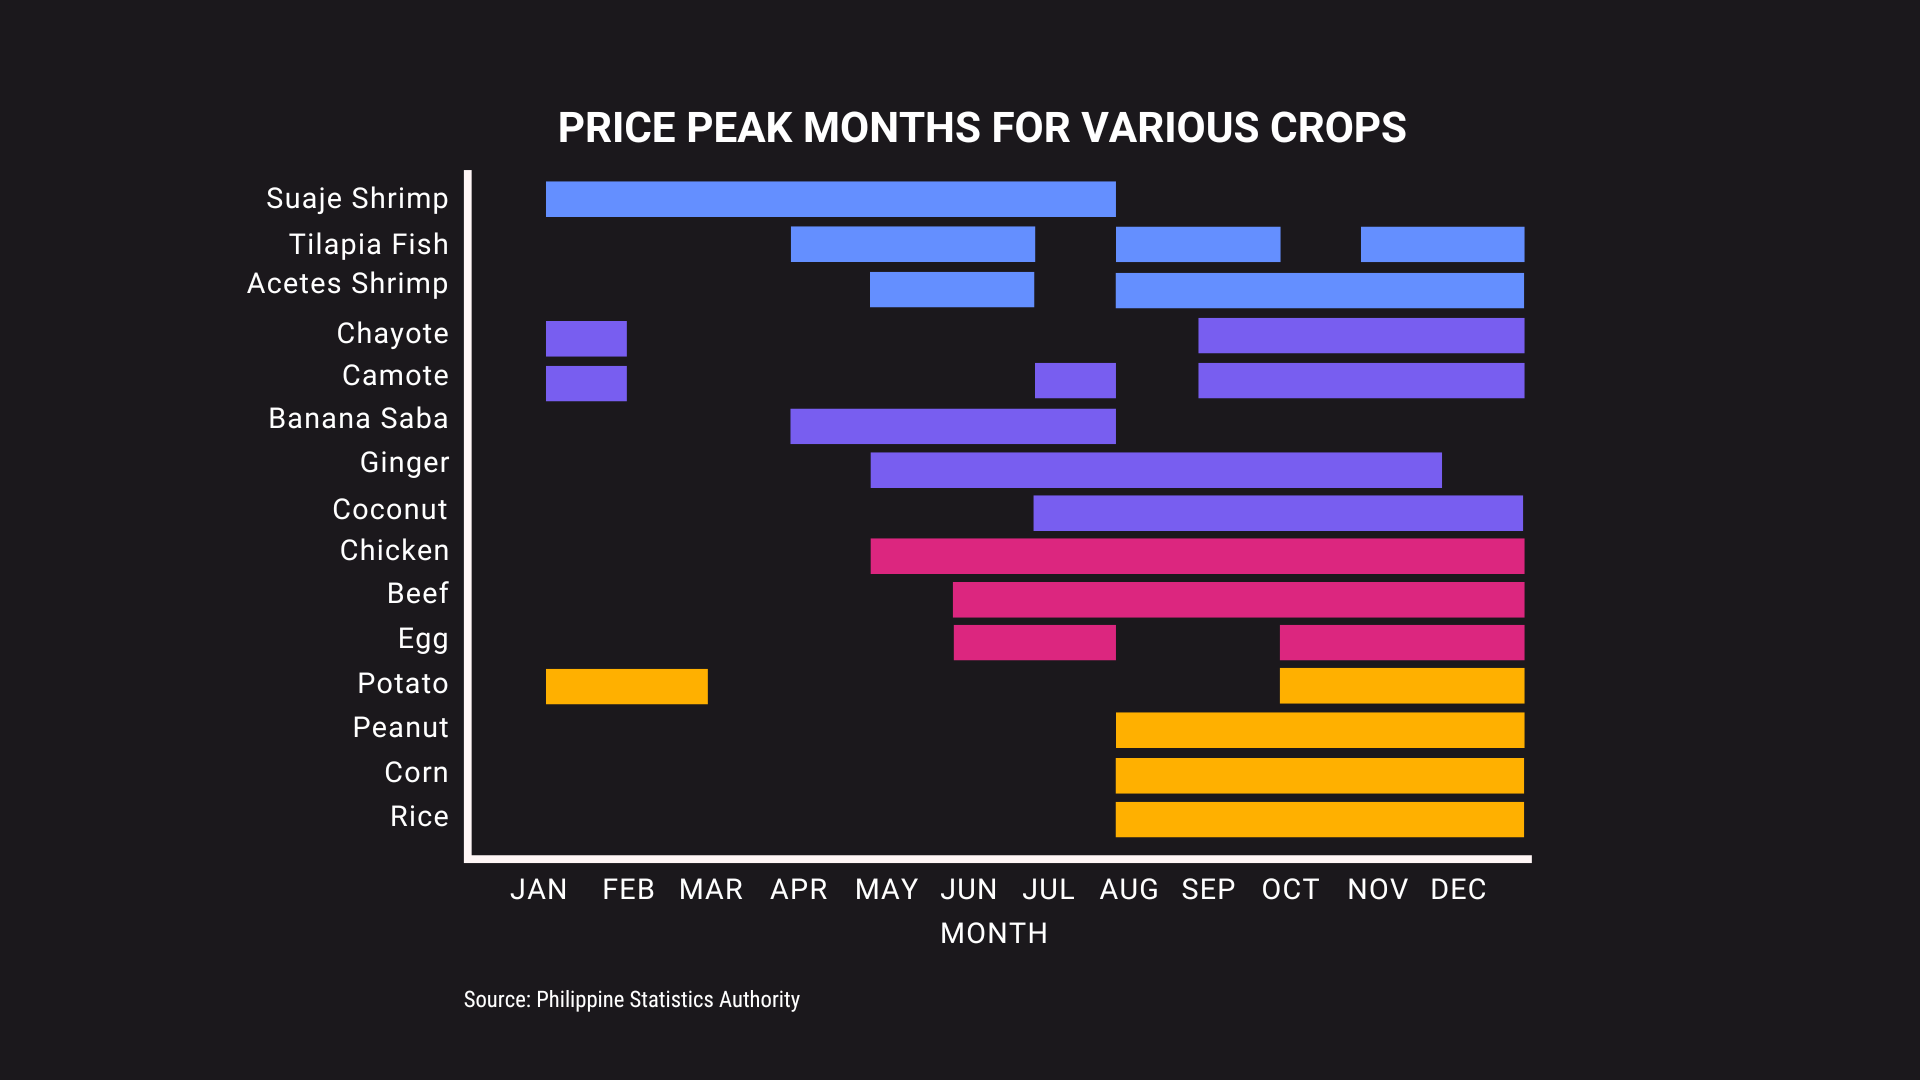
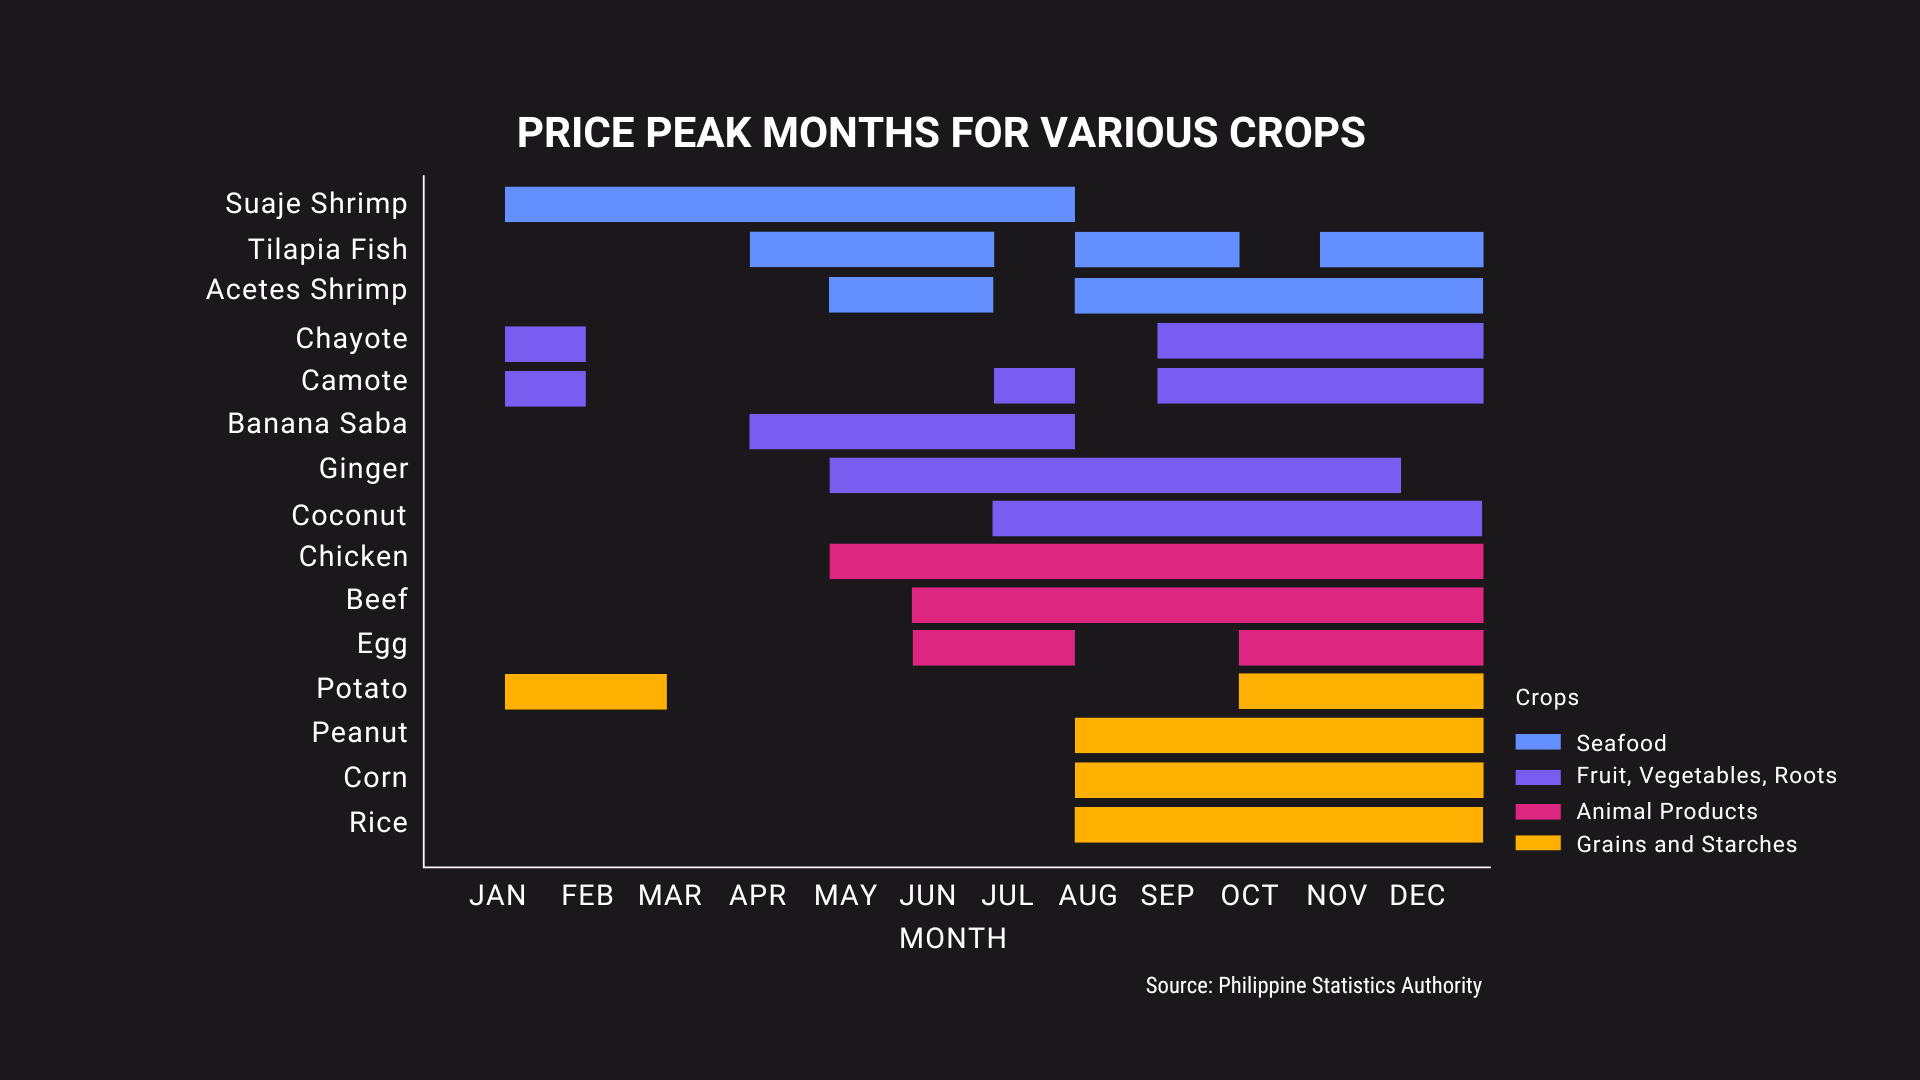
feat: add conclusion

Changed region(s): [[0.0938, 0.0917, 0.9688, 0.8861], [0.5938, 0.8861, 0.7812, 0.9167], [0.25, 0.9167, 0.4062, 0.9472]]

diff --git a/src/lib/Plots.svelte b/src/lib/Plots.svelte
@@ -62,7 +62,7 @@
 		</div>
 	</div>
 
-	<div class="md:flex md:flex-row md:justify-between md:items-center md:gap-12">
+	<div class="md:flex md:flex-row md:justify-between md:items-center md:gap-12 md:mt-8">
 		<div class="flex flex-col gap-2 md:gap-6 items-center">
 			<h2 class="text-center font-msans font-bold text-xl md:text-3xl mt-2">
 				Top Products with <i>Positive</i> Correlation
@@ -121,38 +121,41 @@
 		</div>
 	</div>
 
-	<h2 class="text-center font-msans font-bold text-xl md:text-3xl mt-2">
-		Seasonality of Products
-	</h2>
-	<div class="flex justify-around flex-col md:flex-row gap-2 md:gap-8">
-		<CardImage src="animal.jpg">
-			<span slot="heading">Animal products</span>
-			<span slot="desc"
-				><strong>Spikes</strong> in ber months and <strong>dips</strong> in the following months.</span
-			>
-		</CardImage>
-		<CardImage src="seafood.png">
-			<span slot="heading">Seafood</span>
-			<span slot="desc">
-				<strong>Does not</strong> experience drastic changes in prices, but
-				<strong>shrimp</strong>
-				gets quite <strong>cheap</strong> during the ber months.
-			</span>
-		</CardImage>
-	</div>
-	<div class="flex justify-around flex-col md:flex-row gap-2 md:gap-8">
-		<CardImage src="fruits_veg.jpg">
-			<span slot="heading">Fruits, Vegetables, and Roots</span>
-			<span slot="desc">
-				<strong>Does not</strong> follow some sort of general seasonality.
-			</span>
-		</CardImage>
-		<CardImage src="rice_grains.jpg">
-			<span slot="heading">Rice, Grains, and Starches</span>
-			<span slot="desc">
-				<strong>Gradually increase</strong> in price from August up to December.
-			</span>
-		</CardImage>
+	<div class="flex mt-2 md:mt-8 flex-col gap-2 md:gap-6">
+		<h2 class="text-center font-msans font-bold text-xl md:text-3xl">
+			Seasonality of Products
+		</h2>
+		<div class="flex justify-around flex-col md:flex-row gap-2 md:gap-8">
+			<CardImage src="animal.jpg">
+				<span slot="heading">Animal products</span>
+				<span slot="desc"
+					><strong>Spikes</strong> in ber months and <strong>dips</strong> in the following
+					months.</span
+				>
+			</CardImage>
+			<CardImage src="seafood.png">
+				<span slot="heading">Seafood</span>
+				<span slot="desc">
+					<strong>Does not</strong> experience drastic changes in prices, but
+					<strong>shrimp</strong>
+					gets quite <strong>cheap</strong> during the ber months.
+				</span>
+			</CardImage>
+		</div>
+		<div class="flex justify-around flex-col md:flex-row gap-2 md:gap-8">
+			<CardImage src="fruits_veg.jpg">
+				<span slot="heading">Fruits, Vegetables, and Roots</span>
+				<span slot="desc">
+					<strong>Does not</strong> follow some sort of general seasonality.
+				</span>
+			</CardImage>
+			<CardImage src="rice_grains.jpg">
+				<span slot="heading">Rice, Grains, and Starches</span>
+				<span slot="desc">
+					<strong>Gradually increase</strong> in price from August up to December.
+				</span>
+			</CardImage>
+		</div>
 	</div>
 </div>
 

diff --git a/src/lib/Conclusion.svelte b/src/lib/Conclusion.svelte
@@ -1,5 +1,6 @@
 <script>
 	export let id;
+	import CardImage from '$lib/CardImage.svelte';
 </script>
 
 <div
@@ -8,15 +9,50 @@
 >
 	<h1 class="font-msans text-center text-3xl md:text-5xl font-bold md:mb-4">Conclusion</h1>
 
+	<div class="flex flex-col justify-center items-center gap-4 mb-2">
+		<p class=" text-center font-m text-normal md:text-xl">
+			In conclusion, we <strong>reject</strong> the null hypothesis. Some of the main takeaways
+			of our study include the following
+		</p>
+		<div class="flex justify-around flex-col md:flex-row gap-2 md:gap-8">
+			<CardImage>
+				<span slot="heading">Price Movements</span>
+				<span slot="desc"
+					>Prices of some products are affected by <strong
+						>inter-product correlation</strong
+					>
+					and
+					<strong>time of year</strong>.</span
+				>
+			</CardImage>
+			<CardImage>
+				<span slot="heading">Holiday Seasons</span>
+				<span slot="desc"
+					>We have verified that ber-months or the holiday seasons are time periods
+					wherein <strong>prices peak</strong> for numerous products.</span
+				>
+			</CardImage>
+			<CardImage>
+				<span slot="heading">Applications</span>
+				<span slot="desc"
+					>This study about agricultural products can help us, <strong
+						>the consumers</strong
+					>, and, most importantly, our
+					<strong>farmers</strong>.
+				</span>
+			</CardImage>
+		</div>
+	</div>
+
 	<div class="max-w-screen-lg">
 		<h2 class="mb-2 md:mb-4 font-msans text-center text-xl md:text-3xl font-bold">
 			Some Recommendations
 		</h2>
 		<p class="text-center font-m text-normal md:text-xl">
-			Due to the sheer number of agricultural products and the amount of possible pairings, we
-			were unable to investigate all of them. Hence, we recommend taking the time to perform
-			correlation studies between <strong>all possible product pairs</strong> as well as using
-			data that spans for a <strong>longer period</strong>.
+			Due to the sheer number of agricultural products and the amount of possible product
+			pairings, we were unable to investigate all of them. Hence, we recommend taking the time
+			to perform correlation studies between <strong>all possible product pairs</strong> as
+			well as using data that spans for a <strong>longer period</strong>.
 		</p>
 	</div>
 </div>

diff --git a/src/lib/Exploration.svelte b/src/lib/Exploration.svelte
@@ -129,6 +129,40 @@
 				</svg>
 			</a>
 		</div>
+		<div
+			class="hover:scale-105 transition translate duration-300 max-w-sm p-6 bg-white border border-gray-300 rounded-lg shadow"
+		>
+			<div>
+				<h5 class="mb-2 text-2xl font-semibold tracking-tight text-gray-900">
+					Want to check our repo?
+				</h5>
+			</div>
+			<p class="mb-3 font-normal text-gray-500">
+				Click the link below to check our GitHub repository.
+			</p>
+			<a
+				href="https://github.com/rue-22/cs132-group-two"
+				class="inline-flex font-medium items-center text-blue-600 hover:underline"
+				target="__blank__"
+			>
+				Our GitHub repo!
+				<svg
+					class="w-3 h-3 ms-2.5 rtl:rotate-[270deg]"
+					aria-hidden="true"
+					xmlns="http://www.w3.org/2000/svg"
+					fill="none"
+					viewBox="0 0 18 18"
+				>
+					<path
+						stroke="currentColor"
+						stroke-linecap="round"
+						stroke-linejoin="round"
+						stroke-width="2"
+						d="M15 11v4.833A1.166 1.166 0 0 1 13.833 17H2.167A1.167 1.167 0 0 1 1 15.833V4.167A1.166 1.166 0 0 1 2.167 3h4.618m4.447-2H17v5.768M9.111 8.889l7.778-7.778"
+					/>
+				</svg>
+			</a>
+		</div>
 	</div>
 </div>
 

diff --git a/src/lib/Discussion.svelte b/src/lib/Discussion.svelte
@@ -35,11 +35,6 @@
 		<h2 class="text-center font-msans font-bold text-xl md:text-3xl">
 			Seasonality of Products
 		</h2>
-		<p class="text-center font-m text-normal md:text-xl">
-			Understanding the seasonality of a product helps us, the consumers, to <strong
-				>prepare and plan</strong
-			> the distribution of budgets.
-		</p>
 		<div class="flex justify-around flex-col md:flex-row gap-2 md:gap-8">
 			<CardImage src="ber.jpg">
 				<span slot="heading">Ber months</span>
@@ -79,7 +74,8 @@
 				<span slot="heading">Help Consumers</span>
 				<span slot="desc"
 					>We can carefully <strong>predict and plan</strong> our purchases and potentially
-					save money, especially in this time where product prices are extremely high.</span
+					save money, especially in this time where prices of products and services are extremely
+					high.</span
 				>
 			</CardImage>
 		</div>

diff --git a/src/routes/+page.svelte b/src/routes/+page.svelte
@@ -31,7 +31,11 @@
 	<Team
 		id="team"
 		names={['Gaza, Judelle', 'Roy, RE', 'Salces, CJ']}
-		desc={['2nd year CS student', '2nd year CS student', '2nd year CS student']}
+		desc={[
+			'2nd year UP Diliman CS student',
+			'2nd year UP Diliman CS student',
+			'2nd year UP Diliman CS student'
+		]}
 		images={['1.png', '2.png', '3.jpg']}
 		github={[
 			'https://github.com/ElleDiablo',
